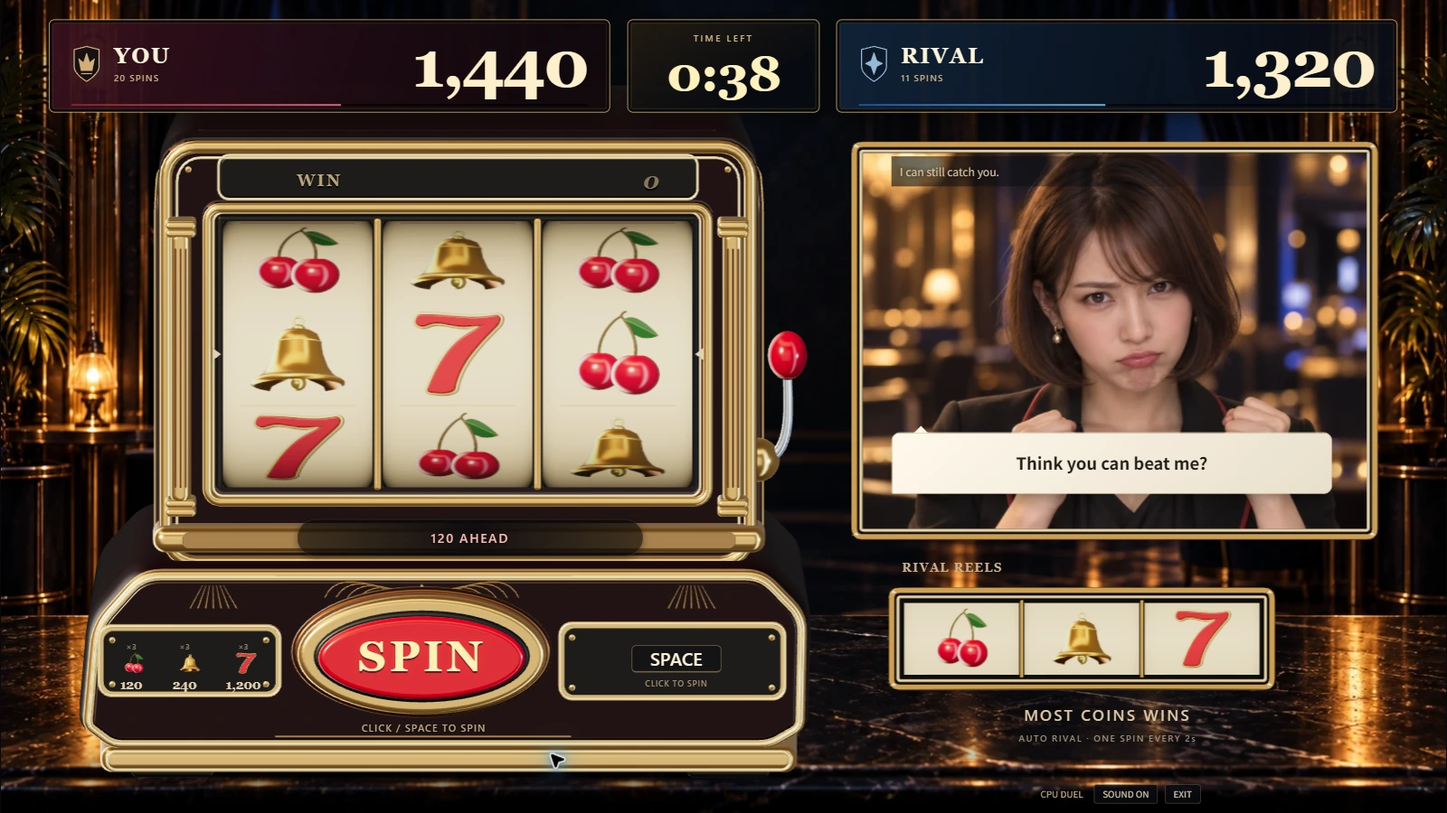
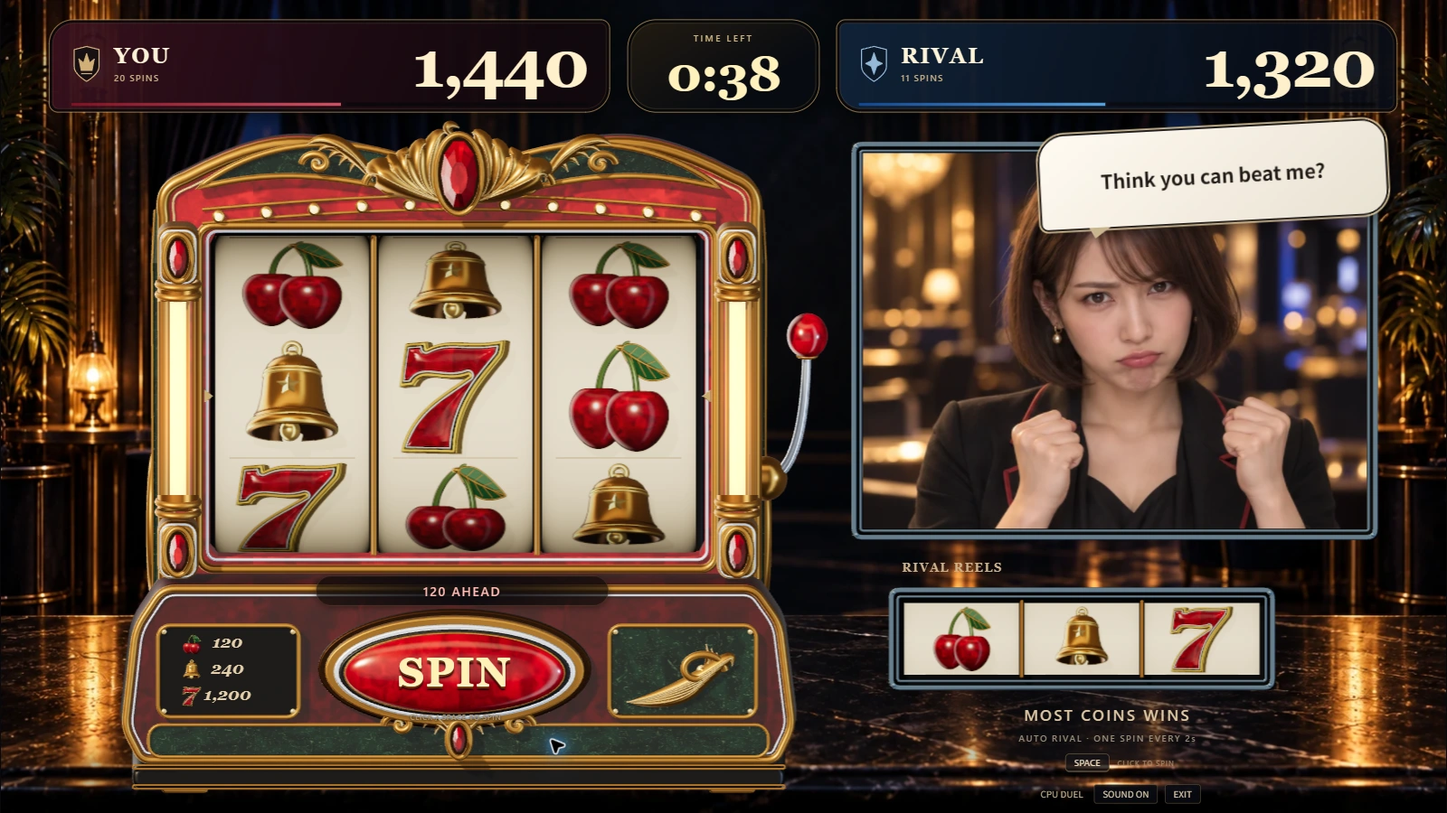
実画面で3Dの質感・当たり・結果表示を仕上げ、採用画像と確認記録を追加する

diff --git a/art-source/houdini/cabinet.html b/art-source/houdini/cabinet.html
@@ -22,6 +22,7 @@ import { createGoldCoinEnvironment } from '../../src/view/GoldCoin.ts';
 
 const renderer=new THREE.WebGLRenderer({antialias:true,alpha:true});
 renderer.setPixelRatio(Math.min(devicePixelRatio,1.5));renderer.outputColorSpace=THREE.SRGBColorSpace;
+renderer.toneMapping=THREE.ACESFilmicToneMapping;renderer.toneMappingExposure=1.15;
 renderer.shadowMap.enabled=true;renderer.shadowMap.type=THREE.PCFSoftShadowMap;
 document.querySelector('#stage').append(renderer.domElement);
 const scene=new THREE.Scene(), camera=new THREE.PerspectiveCamera(34,innerWidth/innerHeight,.1,100);
@@ -34,7 +35,7 @@ seven.position.y+=-2.46-new THREE.Box3().setFromObject(seven).min.y;
 for(const [column,x] of [-1.83,.06,1.87].entries()){
   for(const [row,kind] of [column===1?'cherry':'bell','seven',column===1?'bell':'cherry'].entries()){
     const glyph=symbols[kind].clone(true);glyph.scale.setScalar(kind==='seven'?.62:.58);
-    glyph.position.set(x,4.675+(1-row)*1.14,row===1?.29:-.15);glyph.rotation.x=(1-row)*-.48;
+    glyph.position.set(x,4.19+(1-row)*1.32,row===1?.29:-.15);glyph.rotation.x=(1-row)*-.48;
     cabinet.group.add(glyph);
   }
 }
@@ -42,8 +43,8 @@ for(const [column,x] of [-1.83,.06,1.87].entries()){
 const label=document.createElement('canvas');label.width=512;label.height=128;
 const pen=label.getContext('2d');pen.fillStyle='#ffe9ac';pen.textAlign='center';pen.textBaseline='middle';pen.font='bold 106px Georgia';pen.fillText('SPIN',256,69);
 const lettering=new THREE.Mesh(new THREE.PlaneGeometry(1.8,.45),new THREE.MeshBasicMaterial({map:new THREE.CanvasTexture(label),transparent:true,depthWrite:false}));
-lettering.position.set(-.43,1.32,1.26);cabinet.group.getObjectByName('cabinet-spin-button').add(lettering);
-scene.add(cabinet.group,seven,new THREE.AmbientLight(0xffe6ce,1.3));
+lettering.position.set(-.05,1.16,1.47);cabinet.group.getObjectByName('cabinet-spin-button').add(lettering);
+scene.add(cabinet.group,seven,new THREE.AmbientLight(0xffe6ce,.45));
 const key=new THREE.DirectionalLight(0xffeed4,2.4);key.position.set(-5,8,10);key.castShadow=true;key.shadow.mapSize.set(1024,1024);Object.assign(key.shadow.camera,{left:-9,right:9,top:8,bottom:-8,near:.1,far:35});key.shadow.bias=-.0005;scene.add(key);
 const rim=new THREE.DirectionalLight(0xc0d9ff,1.4);rim.position.set(5,4,-5);scene.add(rim);
 const floor=new THREE.Mesh(new THREE.PlaneGeometry(40,40),new THREE.ShadowMaterial({opacity:.35}));floor.rotation.x=-Math.PI/2;floor.position.y=-2.67;floor.receiveShadow=true;scene.add(floor);

diff --git a/src/view/ArtDirection.css b/src/view/ArtDirection.css
@@ -71,17 +71,21 @@
 #roundStatus { display: flex; flex-direction: row; justify-content: center; gap: .55cqw; align-items: center; opacity: .8; padding: 0; }
 #roundStatus kbd { font-size: .62cqw; padding: .2cqw .6cqw; }
 #roundStatus>small { font-size: .53cqw; }
+#roundStatus #bestRun { gap: .4cqw; }
+#roundStatus #bestRun>small { max-width: none; white-space: nowrap; font-size: .53cqw; }
+#roundStatus #bestRun>strong { font-size: .95cqw; }
+#roundStatus #bestRun:not([hidden])+small { border-left: 1px solid #826b46; padding-left: .6cqw; }
 #start { font: 900 2.8cqw/1 Georgia; letter-spacing: .045em; color: #fff1b7; text-shadow: 0 1px #ffffdd,0 3px #703b0f,0 5px 2px #210101; }
 #spinHint { font-size: .50cqw; letter-spacing: .1em; }
 .scores>div { border-radius: 1.7cqw .65cqw; border-color: #a8854d; }
 .scores>div.rival { border-radius: .65cqw 1.7cqw; }
 .timer { border-radius: 2cqw; border-color: #a8854d; }
-.win-burst { border: 2px solid #e5b854; border-radius: 2cqw .6cqw; background: linear-gradient(135deg,#461013,#74121b 42%,#220507); transform: none; box-shadow: inset 0 0 0 3px #311305,inset 0 0 0 4px #b58b45,0 5px 7px #0009; gap: .9cqw; padding: .3cqw 1cqw .3cqw 3.8cqw; }
+.win-burst { display: flex; flex-direction: column; border: 2px solid #e5b854; border-radius: 2cqw .6cqw; background: linear-gradient(135deg,#461013,#74121b 42%,#220507); transform: none; box-shadow: inset 0 0 0 3px #311305,inset 0 0 0 4px #b58b45,0 5px 7px #0009; gap: .05cqw; padding: .3cqw 1cqw; }
 .win-burst::before,.win-burst::after { content: '◆'; position: absolute; left: 50%; top: -.8cqw; font-size: 1.15cqw; color: #ab1225; text-shadow: 0 0 1px #fff2b8,1px 2px #dcb777,-1px -1px #dcb777; }
 .win-burst::after { top: auto; bottom: -.72cqw; }
-.win-burst small { font: 900 1.35cqw/1.05 Georgia; }
-.win-burst strong { font: 900 3.55cqw/1 Georgia; letter-spacing: -.045em; }
+.win-burst small { font: 900 1.05cqw/1 Georgia; max-width: none; white-space: nowrap; letter-spacing: .10em; }
+.win-burst strong { font: 900 3.0cqw/1 Georgia; letter-spacing: -.045em; }
 .win-burst>span { display: none; }
 .win-burst[data-jackpot=true] { background: linear-gradient(135deg,#601017,#991c26 45%,#370707); filter: drop-shadow(0 3px 6px #110600) drop-shadow(0 0 17px #efad4377); }
-.win-burst[data-jackpot=true] strong { font-size: 3.8cqw; }
-.win-burst[data-jackpot=true] small { font-size: 1.55cqw; }
+.win-burst[data-jackpot=true] strong { font-size: 3.35cqw; }
+.win-burst[data-jackpot=true] small { font-size: 1.2cqw; }

diff --git a/src/view/CabinetModel.ts b/src/view/CabinetModel.ts
@@ -67,8 +67,11 @@ export class CabinetModel {
       // The distant upper shell has a shallower roof. Keep the arched front
       // silhouette visible instead of projecting a large blank wedge above it.
       const displayed = geometry.getAttribute('position');
+      const displayedNormals = geometry.getAttribute('normal');
       for (let i = 0; i < displayed.count; i++) if (displayed.getZ(i) < 0) {
         displayed.setY(i, displayed.getY(i) + displayed.getZ(i) * this.viewSlope * .70);
+        const n = new THREE.Vector3(displayedNormals.getX(i), displayedNormals.getY(i), displayedNormals.getZ(i) - displayedNormals.getY(i) * this.viewSlope * .70).normalize();
+        displayedNormals.setXYZ(i,n.x,n.y,n.z);
       }
       const color = new THREE.Color(palette[node.name] ?? 0xffffff);
       const positions = geometry.getAttribute('position');
@@ -105,7 +108,7 @@ export class CabinetModel {
       this.group.add(mesh);
     });
     const glassGeometry = new THREE.PlaneGeometry(5.72, 3.75);
-    const glass = new THREE.MeshPhysicalMaterial({ color: 0xd4e3ec, roughness: .10, metalness: .05, transparent: true, opacity: .055, depthWrite: false, envMap: environment, envMapIntensity: .45 });
+    const glass = new THREE.MeshPhysicalMaterial({ color: 0xd4e3ec, roughness: .10, metalness: .05, transparent: true, opacity: .025, depthWrite: false, envMap: environment, envMapIntensity: .3 });
     const window = new THREE.Mesh(glassGeometry, glass);
     window.name = 'cabinet-glass';
     window.position.set(-.02, 4.195 - .51 * this.viewSlope, .51);

diff --git a/src/view/ReelScene.test.ts b/src/view/ReelScene.test.ts
@@ -249,7 +249,7 @@ describe('stage rendering and cleanup', () => {
     expect(reelCenters()).toEqual([...player.symbols, ...rival.symbols]);
     expect(reelWins()).toEqual([playerPayout > 0 ? 1 : 0, playerPayout > 0 ? 1 : 0, playerPayout > 0 ? 1 : 0, rivalPayout > 0 ? 1 : 0, rivalPayout > 0 ? 1 : 0, rivalPayout > 0 ? 1 : 0]);
     expect(host.dataset).toMatchObject({ win: String(playerPayout > 0), rivalWin: String(rivalPayout > 0), rivalJackpot: String(rivalPayout >= 1200) });
-    expect(coins().filter(coin => coin.visible)).toHaveLength((playerPayout >= 1200 ? 12 : playerPayout > 0 ? 4 : 0) + (rivalPayout >= 1200 ? 12 : rivalPayout > 0 ? 4 : 0));
+    expect(coins().filter(coin => coin.visible)).toHaveLength((playerPayout >= 1200 ? 12 : 0) + (rivalPayout >= 1200 ? 12 : 0));
     frame(650);
     if (playerPayout === 120) expect(reelWins().slice(0, 3)).toEqual([0, 0, 0]);
     if (rivalPayout > 0) expect(reelWins().slice(3)).toEqual([1, 1, 1]);
@@ -288,7 +288,7 @@ describe('stage rendering and cleanup', () => {
     view.show(symbols, 0, symbols, false, 240);
     frame();
     expect(reelWins()).toEqual([0, 0, 0, 1, 1, 1]);
-    expect(coins().filter(coin => coin.visible)).toHaveLength(4);
+    expect(coins().filter(coin => coin.visible)).toHaveLength(6);
     frame(650);
     expect(reelWins()).toEqual([0, 0, 0, 0, 0, 0]);
     expect(frames.size).toBe(0);

diff --git a/src/view/CabinetArt.ts b/src/view/CabinetArt.ts
@@ -97,12 +97,12 @@ export class CabinetArt {
       fragmentShader: `varying vec2 vUv; uniform float strength; uniform float progress; uniform float jackpot; uniform vec3 tint;
         void main(){vec2 p=(vUv-.5)*2.; float radius=length(p);
           float halo=pow(max(0.,1.-radius),3.);
-          float line=exp(-abs(p.y)*38.)*max(0.,1.-abs(p.x));
+          float line=exp(-abs(p.y)*120.)*max(0.,1.-abs(p.x));
           float angle=atan(p.y,p.x);
           float rays=pow(max(0.,cos(angle*16.+progress*1.8)),18.)
             *smoothstep(.24,.42,radius)*(1.-smoothstep(.6,1.,radius));
           float ring=exp(-abs(radius-(.25+progress*.72))*60.)*(1.-progress);
-          gl_FragColor=vec4(tint,(halo*.26+line*.9+(rays*.26+ring*.25)*jackpot)*strength);}`,
+          gl_FragColor=vec4(tint,(halo*.07+line*.7+(rays*.12+ring*.22)*jackpot)*strength);}`,
     });
     const mesh = new THREE.Mesh(new THREE.PlaneGeometry(player ? 980 : 610, player ? 690 : 290), material);
     mesh.position.set(player ? 530 : 1250, STAGE_HEIGHT - (player ? 458.5 : 740), 60);

diff --git a/src/view/SymbolAtlas.ts b/src/view/SymbolAtlas.ts
@@ -40,9 +40,9 @@ export function createSymbolAtlas(renderer: THREE.WebGLRenderer, models: SymbolM
     renderer.setClearColor(0xffeed2, 1);
     (['cherry', 'bell', 'seven'] as const).forEach((kind, index) => {
       const symbol = models[kind].clone(true);
-      symbol.rotation.set(kind === 'bell' ? -.23 : -.055, kind === 'seven' ? -.19 : -.12, kind === 'seven' ? -.035 : 0);
+      symbol.rotation.set(kind === 'bell' ? -.23 : -.055, kind === 'seven' ? -.27 : -.12, kind === 'seven' ? -.035 : 0);
       symbol.position.y = kind === 'bell' ? -.035 : -.02;
-      symbol.scale.setScalar(kind === 'bell' ? 1.08 : kind === 'seven' ? .94 : .99);
+      symbol.scale.setScalar(kind === 'bell' ? 1.08 : kind === 'seven' ? 1.08 : 1.04);
       symbol.traverse(node => { if (node instanceof THREE.Mesh) { node.castShadow = node.name !== 'symbol-contour'; node.receiveShadow = node.name !== 'symbol-contour'; } });
       scene.add(symbol);
       // Shadow rendering restores the render target's own viewport/scissor.

diff --git a/src/view/WinSymbols.ts b/src/view/WinSymbols.ts
@@ -63,7 +63,7 @@ export class WinSymbols {
     const player = side === 'player';
     const motion = reducedMotion ? 0 : Math.sin(progress * Math.PI * 4) * Math.exp(-progress * 3);
     const pop = reducedMotion ? 1 : 1 + Math.sin(Math.min(1, progress * 3) * Math.PI) * .14;
-    model.position.set(player ? 336 : 1280, STAGE_HEIGHT - (player ? 684 : 658) + (reducedMotion ? 0 : Math.sin(progress * Math.PI) * 3), 145);
+    model.position.set(player ? 282 : 1280, STAGE_HEIGHT - (player ? 681 : 658) + (reducedMotion ? 0 : Math.sin(progress * Math.PI) * 3), 145);
     model.rotation.set(kind === 'bell' ? -.34 : -.1, -.22 + motion * .18, (kind === 'bell' ? .1 : -.1) + motion * (kind === 'bell' ? .28 : .13));
     model.scale.setScalar((player ? 23 : 23) * (kind === 'bell' ? 1.12 : 1) * pop);
     this.materials[side].forEach(material => { material.opacity = reducedMotion ? 1 : opacity; });

diff --git a/src/view/ReelScene.ts b/src/view/ReelScene.ts
@@ -39,9 +39,10 @@ const fragmentShader = `
     if(mini>.5){
       float border = min(min(vUv.x,1.-vUv.x),min(vUv.y,1.-vUv.y));
       float rim = 1.-smoothstep(.025,.11,border);
-      gl_FragColor.rgb += (vec3(.025,.02,.005)*center+vec3(.12,.55,1.)*rim)*winning;
+      gl_FragColor.rgb *= 1.+.05*center*winning;
+      gl_FragColor.rgb += vec3(.12,.55,1.)*rim*winning;
     }else{
-      gl_FragColor.rgb += vec3(.08,.045,.005)*center*winning;
+      gl_FragColor.rgb *= 1.+.08*center*winning;
       float line = (1.-smoothstep(.003,.018,abs(row)))*winning;
       gl_FragColor.rgb += vec3(1.6,.85,.22)*line;
     }

diff --git a/src/view/GameView.ts b/src/view/GameView.ts
@@ -206,6 +206,7 @@ export class GameView implements GamePresentation {
     this.text('#spinHint', state.startControl.hint);
     this.text('#queueStatus', state.startControl.spinState === 'queued' ? 'NEXT SPIN QUEUED ✓' : state.result ? 'START A NEW ROUND' : 'CLICK TO SPIN');
     this.q('#roundStatus').dataset.queued = String(state.startControl.spinState === 'queued');
+    this.q('#roundStatus').hidden = state.mode === 'live';
     this.q('#connection').hidden = state.mode !== 'live' || state.microphone.visible;
     const record = state.sessionRecord;
     this.q('#bestRun').hidden = !record.best;

diff --git a/docs/art-reference/README.md b/docs/art-reference/README.md
@@ -1,0 +1,54 @@
+# Slot-chan ビジュアル目標案
+
+2026-09-13。Codex内蔵 imagegen を使用。外部API用CLIは使用していません。
+
+これは3D制作の目標を検討するための生成画像です。3Dモデル、正確な三面図、実装済みゲーム画面ではありません。描かれた細部や各ビューの差は、モデル化する前に整理します。
+
+|画像|検討する点|
+|---|---|
+|[絵柄・コイン](01-symbol-models.png)|チェリーの実と葉の形、ベルの厚みと空洞、7の太さと縁、コインの刻み。小さなゲーム内表示でも判別できる輪郭を優先。|
+|[筐体](02-cabinet-model.png)|立体の彫刻、宝石風の装飾、照明、張り出す操作盤、ガラス状のSPINボタン。|
+|[当たり演出](03-win-effects.png)|チェリー120・ベル240・7の1200で演出の強さを分け、中央ライン・得点・操作・相手の表情を見せる。|
+
+赤いエナメル、金属の厚い縁、暗い溝を共通にし、派手な造形とチェリー・ベル・7の分かりやすさを両立する案です。演出画像に生成されたBAR等の余分な絵柄は新しいゲーム仕様ではなく、制作時に除外します。筐体図と演出図の装飾細部は同一モデルを厳密に示すものではありません。
+
+## 生成プロンプト
+
+### 01-symbol-models
+
+```text
+Use case: stylized-concept. Asset type: high-resolution landscape 3D game model concept board, four large isolated objects in a clean 2-by-2 layout, each roughly equally prominent.
+Art direction for Slot-chan, a desktop 60-second slot duel game. Exuberant sculpted detailing and jewel-like spectacle inspired by elaborate Japanese slot cabinets, but unmistakable classic American casino symbols and immediately readable rules. Premium stylized photoreal CGI / art-director concept render, physically plausible chunky manufactured objects, deep scarlet enamel, polished warm gold, tiny platinum/chrome separators, near-black recessed edges, emerald green details. Strong silhouettes at small game size. Rich controlled highlights, nuanced roughness, contact shadows, exquisite bevels. NOT cheap shiny primitive shapes, NOT emoji, NOT a flat vector illustration, NOT low-poly, NOT a plain rectangular box, NOT an anime machine. No Japanese text, no brand logos, no watermark. The images are aspirational concept art to guide later modeling, not screenshots of an implemented game.
+Create the actual desired designs, with enough visible volume and side depth for a 3D artist to understand the forms. Neutral dark charcoal studio background, generous space between four quadrants, low-key warm studio lighting with a soft cool rim. Each quadrant has one large front-three-quarter hero render and a small unobtrusive side-profile inset near its lower corner. Do not hide the objects in sparks or smoke.
+TOP LEFT, label "CHERRY": Two plump, slightly asymmetric ruby-red cherries overlapping naturally, fuller than ordinary spheres, subtle heart-shaped shoulders, real stem dimples, deep red at the lower lobes, bright restrained curved highlights. Thick elegantly bent tapered green-gold stems join at the top. A broad dimensional emerald leaf has a folded central ridge, rolled edge and finely modeled veins. Small gold stem collars suggest a luxurious enamel arcade emblem. Immediately recognizable as a pair of cherries.
+TOP RIGHT, label "BELL": A heavy sculpted golden casino bell with a tall rounded shoulder, substantial flared skirt rather than a wide flat hat, genuinely hollow dark inner mouth and a clearly visible round hanging clapper. Thick rolled lip, two restrained engraved rings, a robust top loop, a subtle raised five-point star on the front. Contrasting warm gold planes and darker bronze recesses, fine polished metal edges. The belly, lip and clapper read as separate three-dimensional masses.
+BOTTOM LEFT, label "SEVEN": A bold, wide, forward-slanted classic Vegas numeral 7. Broad flag, muscular diagonal stroke and flared foot. Strong scarlet convex enamel face occupies most of the glyph, not just a thin line. A chunky beveled gold body, narrow bright chrome separator and crisp near-black recessed outline frame the red face. Noticeable side-wall depth and multiple machined bevels, elegant hard-edged silhouette with softly crowned surfaces. A small restrained specular glint, no wings or decoration obscuring the numeral.
+BOTTOM RIGHT, label "COIN": A thick gold casino token, tilted enough to show milled ridged edge, deep engraved radial decoration, two raised concentric rims and a large relief 7 matching the seven design. Weighty real thickness, gold highlights and dark recesses. The center seven remains readable at very small size.
+Only the four labels CHERRY, BELL, SEVEN, COIN and the numeral 7 may appear. No dimensions or explanatory paragraphs. Polished presentation, not a collage of unrelated styles.
+```
+
+### 02-cabinet-model
+
+```text
+Use case: stylized-concept. Asset type: high-resolution landscape industrial game-prop design board, hero three-quarter view plus smaller straight-on view and button-detail inset.
+Art direction for Slot-chan, a desktop 60-second slot duel game. Exuberant sculpted detailing and jewel-like spectacle inspired by elaborate Japanese slot cabinets, but unmistakable classic American casino symbols and immediately readable rules. Premium stylized photoreal CGI / art-director concept render, physically plausible chunky manufactured objects, deep scarlet enamel, polished warm gold, tiny platinum/chrome separators, near-black recessed edges, emerald green details. Strong silhouettes at small game size. Rich controlled highlights, nuanced roughness, contact shadows, exquisite bevels. NOT cheap shiny primitive shapes, NOT emoji, NOT a flat vector illustration, NOT low-poly, NOT a plain rectangular box, NOT an anime machine. No Japanese text, no brand logos, no watermark. The images are aspirational concept art to guide later modeling, not screenshots of an implemented game.
+A spectacular original countertop slot machine designed as the main hero object of a PC game. It should look like an expensive theatrical casino prop: exuberant but coherent. Large sculptural layered upper arch with an elegant gold crown crest, thick cast-metal shoulder ornaments, faceted ruby inset jewels, warm illuminated glass columns flanking the reel opening, small marquee bulbs, rich black-cherry lacquer panels. Deep true cabinet body with substantial curved shoulders and a projecting control deck. Show the complete cabinet including the supporting plinth and natural contact shadow.
+Three large independent physical ivory cylindrical reels occupy most of the upper front, each showing three rows of beautifully modeled classic cherry, golden bell and bold red 7 artwork. Consistent glyph proportions, straight vertical separators. Central row has a restrained single horizontal payline with small side arrows. Never deform or squash the glyphs.
+The lower deck has one large domed elliptical ruby-glass pushbutton with the exact raised gold word "SPIN"; thick machined gold socket, black recessed gasket, convincing glass depth and highlight falloff. Small left payout plaque shows familiar three-of-a-kind cherry / bell / seven and the numerals 120, 240, 1200. A discreet classic red ball lever at the right. No additional game controls, no betting interface, no cash-out controls, no upgrade controls.
+Dominant hero model at left about 65 percent of the composition, slight view down and three-quarter angle clearly revealing the side, rear depth, crown, lamp housings and projecting deck. At upper right, a smaller straight-on model of EXACTLY THE SAME DESIGN. At lower right, a close detail of the domed SPIN button, layered metal bezel and ruby material. Quiet warm charcoal studio background, restrained floor reflection. Main casing remains dark and dimensional; metal must not become flat beige bands. Separate warm gold, cool chrome, red enamel, illuminated glass and dark recesses through lighting and material detail.
+Only minimal English labels "CABINET", "FRONT", "SPIN DETAIL", the word SPIN and payout numerals. No game title on the machine, no people. The silhouette and extravagance should be clear before noticing tiny details.
+```
+
+### 03-win-effects
+
+```text
+Use case: ui-mockup. Asset type: high-resolution landscape game visual-effects concept board, one large jackpot hero frame above two smaller payout-effect detail panels.
+Art direction for Slot-chan, a desktop 60-second slot duel game. Exuberant sculpted detailing and jewel-like spectacle inspired by elaborate Japanese slot cabinets, but unmistakable classic American casino symbols and immediately readable rules. Premium stylized photoreal CGI / art-director concept render, physically plausible chunky manufactured objects, deep scarlet enamel, polished warm gold, tiny platinum/chrome separators, near-black recessed edges, emerald green details. Strong silhouettes at small game size. Rich controlled highlights, nuanced roughness, contact shadows, exquisite bevels. NOT cheap shiny primitive shapes, NOT emoji, NOT a flat vector illustration, NOT low-poly, NOT a plain rectangular box, NOT an anime machine. No Japanese text, no brand logos, no watermark. The images are aspirational concept art to guide later modeling, not screenshots of an implemented game.
+Show aspirational IN-GAME composition and effect design, not a generic casino advertisement. The large upper hero frame is a wide desktop slot duel screen: spectacular sculpted gold / dark scarlet slot cabinet on the left 60%, optional adult female rival portrait on the right 36%, dark private casino salon behind. The cabinet has chunky bevels, crown crest, ruby inset jewels, warm glass lamps, three physical ivory reels, and a domed red SPIN button. Rival is a fictional adult woman in a black jacket with red piping, delighted and surprised, no celebrity likeness. Her portrait and score remain readable.
+The central payline has THREE BOLD RED SEVENS perfectly aligned and sharply readable. Emphasize a single bright gold line through their centers, layered golden rays behind the win, localized lens glints at metal edges, a lively fountain of thick rotating gold 7 tokens that travels around the cabinet perimeter and into the player's score. Use foreground / middle / background layers for depth. Keep the three winning symbols, SPIN button, rival's face, timer and both scores uncovered. A sculpted red-and-gold "BIG WIN" badge and large "+1,200" sit immediately below the reels. Exciting restrained warm bloom, no full-screen white flash, no unreadable wall of particles.
+Top score strip: exact short labels "YOU" and "RIVAL"; scores "3,640" and "3,200"; center timer "00:08". Rival has one small elegant ivory speech bubble saying "You hit three sevens?!" near the top corner, clear of the eyes. No game title, no Japanese text, no unexplained special modes.
+Below the large hero frame, two smaller close-up effect panels using the SAME cabinet and symbols:
+Left label "CHERRY WIN": three glossy red cherries on the middle line, a precise warm rim-light pulse, a small scatter of 4 to 6 gold flecks and the clear payout "+120". A quick satisfying small win, no giant explosion.
+Right label "BELL WIN": three sculpted gold bells on the middle line, a richer golden ring pulse and several weighty spinning coins, with the clear payout "+240". More energy than cherries, clearly less than the top jackpot.
+The hierarchy is visual: cherry = small sparkle, bell = stronger burst, seven = grand gold celebration. Crisp English typography and readable gameplay first, with spectacular designed motion suggested by curved particle paths and a few selective motion trails. The result should guide a real-time 3D effects artist. No neon rainbow clutter, no floating arbitrary Japanese numbers, no confetti covering the action, no motion blur on winning glyphs.
+```

diff --git a/art-source/houdini/README.md b/art-source/houdini/README.md
@@ -1,76 +1,47 @@
 # Houdiniモデルの制作元
 
-HoudiniのPython SOPで、厚みのある本体、二重の縁、刻みのある側面、面取りした両面の7を組み立てます。Houdini Apprentice 22.0.429で実際に生成・書き出し済みです。形状はスクリプトで再生成でき、特定のフォントや外部素材に依存しません。
-
-`npm run dev` の起動後、`/art-source/houdini/preview.html` を開くと、ゲームと同じ形状・金属材質を拡大して確認できます。中央のコインは回転し、ボタンで停止できます。この確認ページは本番ビルドに含めません。
+[採用リファレンス3枚](../../docs/art-reference/README.md)から、コイン・ベル・チェリー・7・筐体をHoudini Apprentice 22.0.429のPython SOPで制作。画像は制作目標であり、モデルに貼った筐体写真ではない。[実ゲームでの比較と確認](../../docs/game-art-direction.md)。
 
 ## 再生成
 
-Houdiniをインストールし、無料のApprenticeライセンスを有効にしてから、Houdini付属の`hython`で次を実行します。
-
-```powershell
-& 'C:/Program Files/Side Effects Software/Houdini 22.0.429/bin/hython.exe' art-source/houdini/build_coin.py
-```
-
-- `exports/slot-chan-coin.obj`: ゲームへ取り込む形状。Gitへ含めます。
-- `.art-build/slot-chan-coin.hipnc`: 編集用のHoudiniシーン。リポジトリのルートに生成し、Gitへ含めません。
-
-編集用シーンの`/obj/slot_chan_coin/procedural_coin`で、円周の分割数と側面の刻み数を変更できます。形状の断面と7の比率は`build_coin.py`で調整します。
-
-`triangulate_for_web`で三角形化し、`OUT_COIN`からOBJを書き出します。既定の形状は2,956三角形。Three.jsでは1つの形状と反射マップを24枚のコインで共有し、当たり中に追加のモデル取得や形状生成を行いません。表示用の材質と照明は`src/view/GoldCoin.ts`、飛び方は`src/view/CabinetArt.ts`を変更します。
-
-OBJは無料版で対応する書き出し形式です。制作に利用したApprenticeは非商用向けのため、この素材もゲームソンの非商用デモ向けとして扱ってください。商用化する場合は、制作ライセンスと素材の扱いをSideFXの条件に照らして確認してください。
-
-アカウント情報、ライセンスファイル、個人のメールアドレスはGit対象に含めません。編集用のネイティブシーンもGit対象外とし、制作スクリプトから再生成します。
-
-## ベルとチェリー
-
-`build_symbols.py`で、開いた裾と内側・舌を持つベル、2つの実と曲がった茎・折れ目のある葉を持つチェリーを制作します。Houdini Apprentice 22.0.429で生成済みです。
+Houdini付属の `hython` で、リポジトリのルートから実行する。
 
 ```powershell
 & 'C:/Program Files/Side Effects Software/Houdini 22.0.429/bin/hython.exe' art-source/houdini/build_symbols.py
-```
-
-- `exports/slot-chan-bell.obj`: 3,872三角形。部位別に金色を調整します。
-- `exports/slot-chan-cherry.obj`: 3,232三角形。果実のクリアコートと葉・茎の材質を分けます。
-- `.art-build/slot-chan-symbols.hipnc`: 2モデルの編集用シーン。Python SOPの生成コードを埋め込んでおり、特定PCのパスに依存しません。
-- `/art-source/houdini/symbols.html`: コインを含む3モデルの拡大プレビュー。回転と正面への復帰を操作できます。開発サーバー専用です。
-
-材質とOBJ読み込みは`src/view/SymbolModels.ts`で管理します。外部のテクスチャやフォントは使いません。これらもApprenticeで制作した非商用デモ向け素材です。
-
-`src/view/WinSymbols.ts`が両者のWIN表示へモデルを配置します。ベルは小さく揺れ、チェリーは弾みます。次の回転を予約していても、確定した獲得コインと同じ通常650msの間はモデルと金貨の演出を残します。動きを減らす設定ではモデルを短く静止表示します。
-
-`obj_export.py`は、Houdiniから書き出した同一の位置・UV・法線をまとめます。面の並びと部位名、面取りや硬い縁の法線を保ち、コイン・ベル・チェリーのOBJ合計は約566KBです。通常のゲーム開発ではOBJを再生成する必要はなく、Houdini未導入でも`npm run dev`で遊べます。
-
-## 7と筐体
-
-`build_cabinet.py`で、金縁と赤いエナメル面を重ねた7、背面まで厚みを持つ筐体を制作します。Houdini Apprentice 22.0.429で生成済みです。7の輪郭はベジェ曲線、縁は丸い断面、筐体は奥へ絞った曲面で構成しています。
-
-```powershell
 & 'C:/Program Files/Side Effects Software/Houdini 22.0.429/bin/hython.exe' art-source/houdini/build_cabinet.py
+& 'C:/Program Files/Side Effects Software/Houdini 22.0.429/bin/hython.exe' art-source/houdini/build_coin.py
 ```
 
-| 出力 | 内容 |
-| --- | --- |
-| `exports/slot-chan-seven.obj` | 6,252三角形、321,351 bytes。曲線の輪郭、丸い金縁、暗い内縁、赤いエナメル面 |
-| `exports/slot-chan-cabinet.obj` | 36,974三角形、1,982,633 bytes。丸い窓枠、曲面の側板と操作盤、装飾、背板、ボタン、レバー、脚、無地のドラム |
-| `.art-build/slot-chan-cabinet.hipnc` | 2モデルを収めた編集用シーン。Git対象外。リポジトリのルートに生成 |
+`build_symbols.py` が形状の共通部品、`build_cabinet.py` が7と筐体、`build_coin.py` が同じ7を両面に使ったコイン、`obj_export.py` がOBJの重複座標の整理を担当する。同じフォルダーのスクリプトをまとめて使う。
 
-`/obj/slot_chan_seven/procedural_seven`と`/obj/slot_chan_cabinet/procedural_cabinet`が制作ノードです。Python SOPに生成コードを埋め込んでおり、編集用シーンを別のPCへ移しても元のスクリプトの絶対パスを必要としません。スクリプトから再生成する場合は、同じフォルダーの`build_symbols.py`と`obj_export.py`も使います。
+| 出力 | 三角形 | 主な造形 |
+| --- | ---: | --- |
+| `exports/slot-chan-cherry.obj` | 13,320 | 茎元のくぼみ、非対称の実、曲がる茎、立体の葉と金の葉脈 |
+| `exports/slot-chan-bell.obj` | 10,042 | 丸い肩、厚い口と空洞、舌、二重の帯、星 |
+| `exports/slot-chan-seven.obj` | 12,630 | 波打つ旗、太い脚、金銀の縁、盛り上がる赤い面 |
+| `exports/slot-chan-coin.obj` | 16,252 | 両面の赤い7、二重の縁、側面の刻み、放射状の装飾、粒の縁 |
+| `exports/slot-chan-cabinet.obj` | 81,043 | 上部アーチ、葉の彫刻、宝石、塗装・石材のパネル、操作盤、ボタン、側板、レバー、脚、無地ドラム |
 
-筐体は前方を+Z、上を+Yとし、ゲームの100pxを1単位にしています。原点はゲーム座標の`(530, 870)`。`rectangle()`内で左上起点の画面座標から変換します。絵柄は高さ約2単位に揃えています。
+OBJはGitに含める。`.art-build/slot-chan-symbols.hipnc`、`slot-chan-cabinet.hipnc`、`slot-chan-coin.hipnc` は編集用のネイティブシーンでGit対象外。生成コードをPython SOPへ埋め込むため、特定PCのパスに依存しない。アカウント・ライセンス・メールアドレスは含めない。通常のゲーム開発ではHoudiniなしで `npm run dev` を利用できる。
 
-OBJは形状と法線・部位名を保持し、材質はThree.js側で設定します。
+## Three.jsでの表示
 
-- `seven_gold` / `seven_border` / `seven_enamel`: `src/view/SymbolModels.ts`で金属・内縁・エナメルを設定。
-- `cabinet_*`: `src/view/CabinetModel.ts`で金属・濃いワイン色の塗装・黒いパネル・赤いボタンを設定。同じ材質の部位はまとめて描画。
-- `cabinet_spin_button`: 押し込み用に独立。レバーの赤い持ち手は`cabinet_button`。
-- `cabinet_reel_0`〜`2`: 拡大プレビュー用の無地ドラム。ゲーム側では省き、既存の下向き回転リールを表示。
+- `src/view/SymbolModels.ts`：部位名から金属・エナメル・緑の葉などを設定。同じ材質の形状をまとめる。
+- `src/view/FinishTextures.ts`：赤い塗装と緑の石材の色模様をコードで生成。
+- `src/view/SymbolAtlas.ts`：起動時に3Dの絵柄を1536×512へ一度描画し、両者の回転リールで共有。回転中に個々の立体を再描画する方式ではない。
+- `src/view/CabinetModel.ts`：筐体の塗装・金属・宝石・石材。`cabinet_spin_button` は押し込み用に独立。`cabinet_reel_*` はゲームでは省き、回転するリールを置く。
+- `src/view/CasinoStage.ts`：ゲーム側のガラス照明、リールの凹みと仕切り、相手側の枠。
+- `src/view/CabinetArt.ts`：当たり別のきらめき・光・コイン。コインの形状は24枚で共有し、当たり中に読み込まない。
 
-正面にも側面と共通の材質を使い、筐体の面へ背景写真を貼る処理は撤去しました。金属には小さな加工目のテクスチャをコードで生成し、粗さと微細な凹凸へ使います。窓の薄いガラスはThree.js側で追加する透明な板で、OBJには含めません。ゲームの大きな背景画像は引き続き使用します。
+筐体の前は+Z、上は+Y。ゲームの100pxが1単位、原点は画面の `(530,870)`。モデルの側面と背面にも奥行きを持たせる。ゲームの固定視点用に奥行きの投影を補正するが、絵柄の縦横比は補正から分離する。
 
-`src/view/SymbolAtlas.ts`が、ベル・チェリー・7を起動時に一度だけ1536×512の画像へ描画します。両者の回転リールはこの共有画像を曲面へ貼り、WIN表示は元の立体モデルを使います。これで通常回転と当たりの絵柄を揃えています。回転中の絵柄自体を毎フレーム立体として描画する方式ではありません。HTMLの小さな配当アイコンは既存画像です。
+## 拡大確認
 
-`npm run dev`の後、`/art-source/houdini/cabinet.html`で2モデルを確認できます。ドラッグ・ホイールで回転と拡大、**Front / Three-quarter / Side / Back**で角度を切り替え、**Press SPIN**でボタンを押せます。このページは開発専用です。[仕上げ後のモデル・ゲーム画面・確認記録](../../docs/houdini-finish.md)、[初版の記録](../../docs/houdini-cabinet.md)。
+`npm run dev` のURLで次を開く。いずれも本番ビルドには含めない。
 
-参考: [Houdini製品比較](https://www.sidefx.com/products/compare/)、[Apprenticeの条件](https://www.sidefx.com/get/try-houdini/)、[Python SOP](https://www.sidefx.com/docs/houdini/nodes/sop/python.html)。
+- `/art-source/houdini/cabinet.html`：7と筐体。Front / Three-quarter / Side / Back、ドラッグとホイール、Press SPIN。
+- `/art-source/houdini/symbols.html`：コイン・ベル・チェリー。回転と停止。
+- `/art-source/houdini/preview.html`：コイン。
+- `/?visual-review`：実ゲームの通常・各当たり・結果・字幕・回転計測。**完成判定はこちらのゲーム画面で行う。**
+
+Apprenticeで制作した非商用ゲームソンのデモ向け素材として扱う。商用化時は[SideFXの条件](https://www.sidefx.com/get/try-houdini/)を確認する。[初版の制作記録](../../docs/houdini-cabinet.md)と[PR #107時点](../../docs/houdini-finish.md)は過去の状態。

diff --git a/docs/game-art-direction.md b/docs/game-art-direction.md
@@ -1,36 +1,65 @@
-# ゲーム画面全体の質感と配置の改善
+# 採用リファレンスからの3Dモデル・ゲーム画面の改善
 
-2026-09-13 / #109。公開ゲームを見直したところ、背景写真の旧筐体が新しい3D筐体の周りに残り、照明・絵柄・操作部も揃っていなかった。モデル単体のプレビューを完成度の判断に使いすぎていたため、今回は実際の対戦画面を基準に調整した。
+2026-09-13 / Issue #109 / PR #110。
 
-## 変更前と変更後
+ユーザーが採用した[3枚の制作目標](art-reference/README.md)を基準に、Houdiniの造形、Three.jsの材質・照明、実際のゲーム画面を修正した。筐体の形は2枚目、当たりの強弱は3枚目を基準にする。生成画像は正確な三面図ではなく、描かれたBARは追加しない。
 
-![変更前の公開ゲーム](evidence/game-art-direction/before.webp)
+## リファレンスと実ゲーム
 
-![変更後の通常画面](evidence/game-art-direction/normal-1600.webp)
+| 採用した筐体の目標 | 実ゲーム・通常画面 |
+| --- | --- |
+| ![筐体の制作目標](art-reference/02-cabinet-model.png) | ![1600×900の実ゲーム](evidence/game-art-direction/normal-1600.webp) |
 
-変更前は公開CPU対戦、変更後はローカルの固定局面プレビュー。勝ち演出で隠れる前の通常画面でも、背景・筐体・リール・操作部が一体に見えることを重視した。
+| 採用した演出の目標 | 実ゲーム・7揃い |
+| --- | --- |
+| ![当たり演出の制作目標](art-reference/03-win-effects.png) | ![1920×1080の7揃い](evidence/game-art-direction/jackpot-1920.webp) |
 
-- 旧筐体や額縁を含まない[新しい背景](visual-assets.md#casino-room)を制作し、3D筐体の二重写りを解消した。
-- 過剰な環境光を減らし、暖色の主光源・寒色の補助光・色調変換を揃えた。塗装を深い赤へ調整し、金属との明暗差を付けた。
-- ゲーム用の筐体表示にY/Z方向の投影補正を入れ、上部・肩・操作盤の厚みを見せた。制作元のOBJ形状や回して見るモデルプレビューは変えていない。
-- リール3列の幅を揃え、凹んだリール窓、金属の仕切り、中央ラインの目印、ライバル側の枠をThree.jsの形状で追加した。
-- リール端の陰影とアイボリー色を調整。ゲーム中の配当アイコンにも同じ3Dモデルを使った。入口・結果の小さなアイコンは従来の画像を残す。
-- 大きい得点を保ちながら上部の余白を広げ、ボタン位置、字幕、補助説明を整理した。
+ゲーム画像は開発用の固定局面。配当の大小を同じ条件で比較するために使用したもので、通常抽選で連続して当たったという記録ではない。
 
-これは固定視点のゲーム画面の改善で、参考画像の写実的な仕上がりを再現しきったという評価ではない。今後の改善もモデル一覧ではなく、実際の通常プレイ・当たり・結果を見て判断する。
+## 作り直した部分
 
-## PC画面での確認
+- **7**：太く波打つ旗と曲がった脚、金の側面、細い銀の縁、暗い溝、膨らんだ赤いエナメル面を形状で制作。内側の鋭い切り欠きは丸いオフセットで処理し、赤い面が欠ける問題を修正した。
+- **チェリー**：左右非対称の実、くぼんだ茎元、張った肩、太い曲線の茎、折れた緑の葉、金属の葉脈・縁・茎元の輪を制作。変形後の形から法線を求める。
+- **ベル**：厚い裾、暗い空洞、見える舌、丸い肩、二重の帯、前面の立体の星を制作。
+- **コイン**：同じ7を両面に配置し、赤い面・二重の縁・側面の刻み・放射状の装飾・粒状の縁を追加。24枚で同じ形状を共有する。
+- **筐体**：曲線の上部アーチ、大きいルビー、厚みのある金の葉と渦巻き、緑の石材、照明柱、赤い塗装、張り出す操作盤、ドーム状のSPINボタンを制作。広すぎる黒い屋根の投影も縮めた。
+- **材質**：塗装の細かな模様、緑の石材と筋、加工目をコードで生成。完成した筐体の写真をモデルへ貼る方式は使わない。暖色の主光源・寒色の補助光・静的な影を揃える。
+- **ゲーム画面**：リール窓を縦に拡大し、3列とライバルの絵柄の比率を維持。配当表を縦に整理し、ボタンと説明を配置し直した。短い台詞と長い字幕の表示を分け、得点・時間・顔・SPINを残す。
+
+## 当たりの強弱
+
+| 当たり | 見せ方 |
+| --- | --- |
+| チェリー / +120 | 中央の細い金線、5つのきらめき。コイン噴出なし |
+| ベル / +240 | 中央ライン、金の輪、10個のきらめき、6枚のコイン |
+| 7 / +1,200 | 大きい獲得表示、周囲のライトと光線、18個のきらめき、12枚のコイン |
+
+コインは中央の絵柄や相手の顔を横切らず、筐体の外側から得点側へ弧を描く。光の広がりは赤い絵柄が白く飛ばない強さへ調整した。動きを減らす設定ではコインを止める。
+
+![チェリーの小当たり](evidence/game-art-direction/cherry-1600.webp)
+
+![ベルの当たり](evidence/game-art-direction/bell-1600.webp)
+
+## 確認
 
 ![1280×720の通常画面](evidence/game-art-direction/normal-1280.webp)
 
-![1920×1080で両者が7を揃えた場面](evidence/game-art-direction/jackpot-1920.webp)
+![1280×720の結果](evidence/game-art-direction/result-1280.webp)
 
-![1280×720の結果画面](evidence/game-art-direction/result-1280.webp)
+![長い検収用字幕と結果](evidence/game-art-direction/long-caption.webp)
 
-上記3枚は固定局面プレビュー。小さいPC画面でのリールの比率、得点、結果と再戦ボタンの収まりを目視した。大当たりは画面上で確認するため固定しており、通常抽選で連続して引いたという記録ではない。
+1280×720、1600×900、1920×1080の実Chromeで通常・チェリー・ベル・7揃い・結果を比較した。結果下の自己ベストを1行へ収め、Liveでは同じ位置を接続・マイク操作へ使う。長い字幕は顔の下側に置き、目と得点を残す。
 
-Chromeの1920×1080・前面タブで8秒の回転/当たりを計測し、フレーム時間の中央値16.7ms、95パーセンタイル17.0ms。最大42 draw calls / 102,328 triangles。[計測値](evidence/game-art-direction/performance.json)。待機5秒の追加描画は0フレームだった。[待機計測](evidence/game-art-direction/idle.json)。特定PCの短時間計測であり、全PCでの性能保証ではない。
+1920×1080の前面表示で回転と当たりを約8秒計測し、409サンプルのフレーム間隔は中央値16.7ms、95パーセンタイル16.9ms。ピーク56描画呼び出し・385,285三角形。静止5秒の追加描画は0回だった。このPCでの短い計測であり、他のPCの速度は保証しない。[回転計測](evidence/game-art-direction/performance.json)、[待機計測](evidence/game-art-direction/idle.json)。
 
-既存の235テスト、型検査、本番ビルド、lint、Node ESMのサーバー起動確認が成功。テストは追加していない。主JSは801.79KB gzip、CSSは6.78KB gzip。3Dモデルを含む主JSの既存サイズ警告は残る。
+本番ビルドの主JSは1,964.54KB gzip、CSSは7.52KB gzip。型検査・lint・既存235テスト・サーバーの実行形式の確認・ビルドが成功。詳細なOBJをそのまま含めるため初回の転送量は増えた。公開反映の結果は[現在の状態](current-status.md#公開記録)へ記録する。
 
-音声・映像APIは今回の画面確認に使っていない。CPU対戦の規則・MVVM・任意ライブの接続処理は変更していない。
+最終ビルドの実CPU対戦では、無操作時に自分0回対相手19回を確認した後、クリックとSpaceの予約で自分2回・120点、相手30回・600点で60秒を完走した。別の通し対戦では2回・0点対30回・480点で終了し、再戦時の60秒・両者0回/0点への初期化、Space予約、退出も確認した。
+
+![通常抽選による60秒対戦の結果](evidence/game-art-direction/local-play-result.webp)
+
+既存の自動テストのうち、今回変えたチェリーとベルのコイン枚数の期待値だけを更新する。ゲーム規則・MVVM・任意Liveの接続処理は変更していない。今回の表示確認では音声・映像APIを呼ばない。長い日本語字幕も実際の会話ではない開発用の文で確認する。
+
+## 参考画像との差として残すこと
+
+実装はPCの固定視点向けのリアルタイム描画で、生成画像と同じ写実性を達成したという評価ではない。彫刻は再現可能な曲面と葉・渦巻きへ整理し、画像内の微細な傷・装飾をすべて再現するものではない。リールの絵柄は元の3Dモデルを起動時に一度描画して共有し、回転中の負荷を抑える。大きな筐体・当たりのコイン・配当マークは3Dモデルを描画する。ゲーム中の文字は読みやすいHTML/CSSを維持する。
